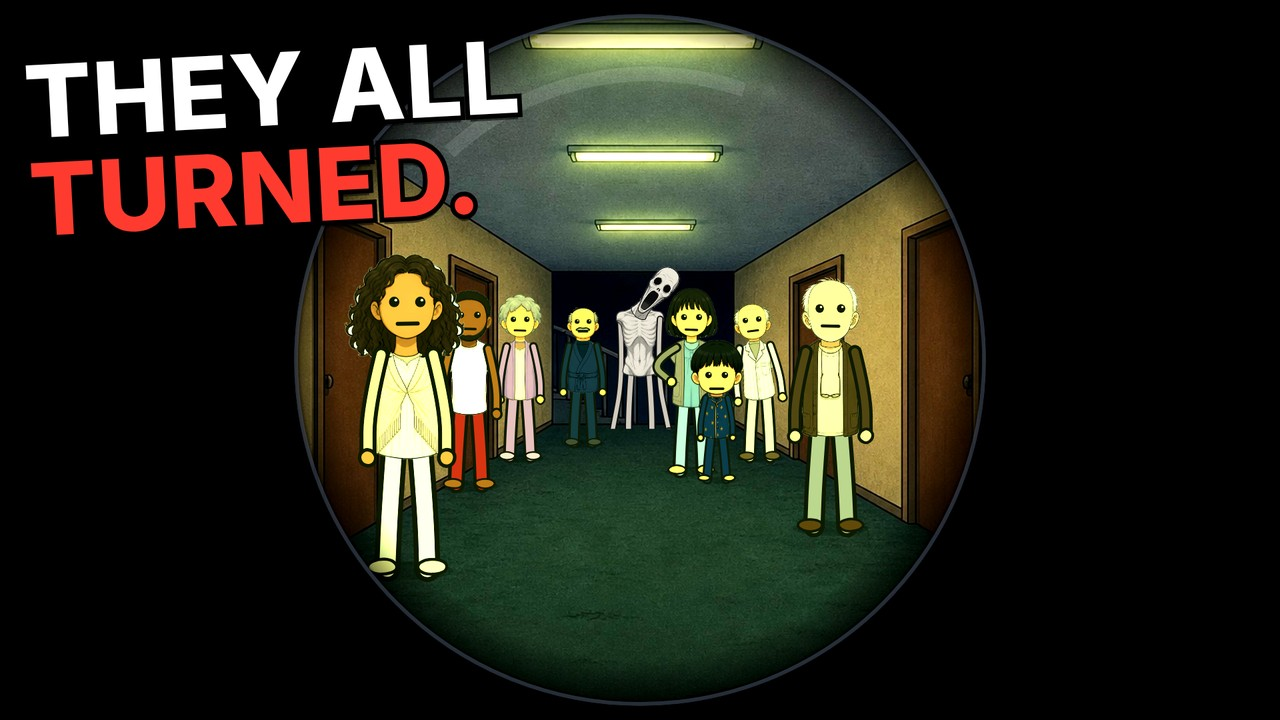
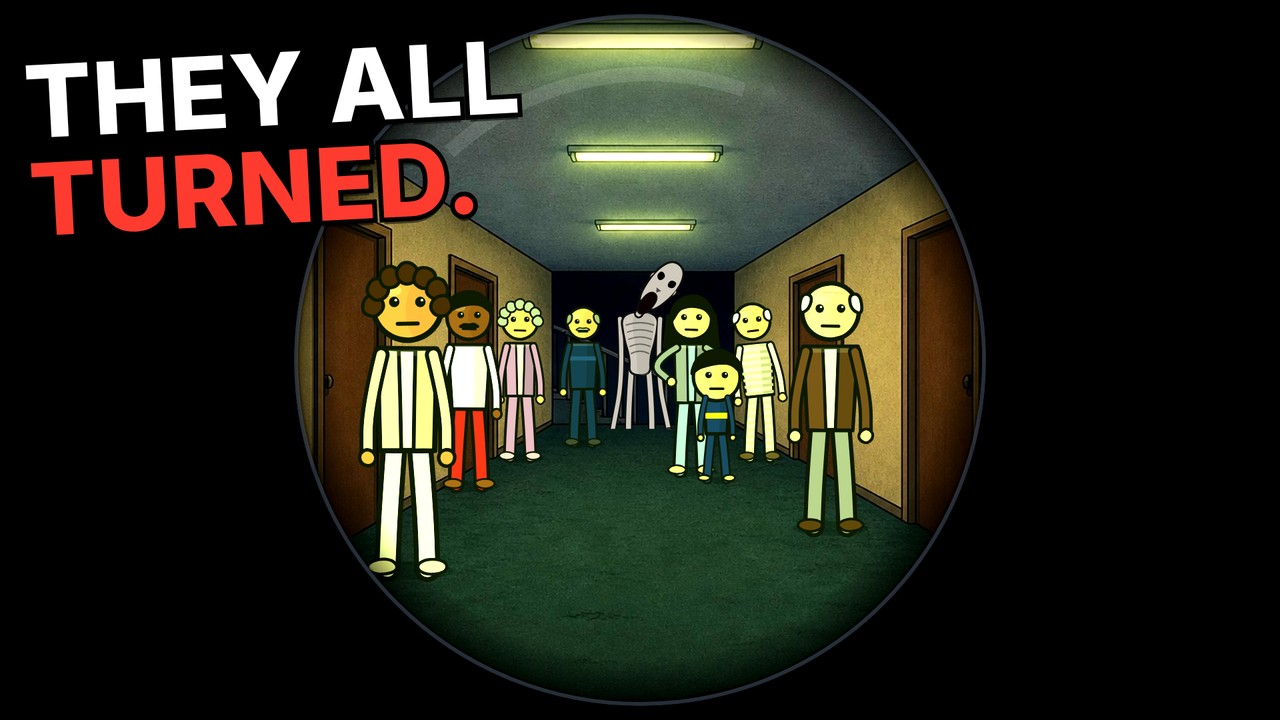
3:06 stick: back to the code-drawn style (no painted puppets)
The cast is drawn in code like the new Mr. Widemouth and Goatman (with new
open-cardigan and sweater-vest options for Mr. Harris, the mother, the
landlord and the neighbours); the creature, the sack, the sofa, the table,
the chair and the notebook are now code drawings too. Painted backgrounds
kept. Frame QA: 0 findings on every 2nd frame. Thumbnails re-rendered.

Claude-Session: https://claude.ai/code/session_01HYgoxans3AHT78NQRMkcgm

Changed region(s): [[0.25, 0.3361, 0.6875, 0.6722]]

diff --git a/door306-stick/src/components/characters/Creature.tsx b/door306-stick/src/components/characters/Creature.tsx
@@ -1,16 +1,12 @@
 // THE CREATURE: nearly seven feet of grey skin over bone, painted head and torso (cut-out parts), code-drawn
 // limbs: arms that hang almost to the floor, fingers far too long, a head bent at an impossible angle.
 import React from 'react';
-import {staticFile} from 'remotion';
-import puppets from '../../data/generated/puppets.json';
-import {boilOf, wob, wobLine, type Pt} from '../../utils/rough';
+import {boilOf, wob, wobLine, wobPoly, type Pt} from '../../utils/rough';
 import {qaAdd, useStageCtx} from '../../stick/kit';
 
 const INK = '#141414';
 const SKIN = '#8d8a84';
 const SKIN_D = '#6f6c66';
-type Part = {src: string; w: number; h: number};
-const C = (puppets as unknown as Record<string, Record<string, Part>>).creature;
 
 export type CreatureProps = {
 	x: number;
@@ -116,14 +112,50 @@ export const Creature: React.FC<CreatureProps> = ({x, y, s = 1, frame, view = 'f
 			<Fingers h={hd} dir={reach && k === 1 ? Math.atan2(hd[1] - sh[1], hd[0] - sh[0]) : Math.PI / 2} curl={grip && k === 0 ? 1 : 0.35} sd={sd + 30 + k * 5} />
 		</g>
 	);
-	const torso = view === 'back' ? C.torsoBack : view === 'side' ? C.torsoSide : C.torso;
-	const head = view === 'back' ? C.headBack : view === 'side' ? C.headSide : C.head;
-	const tw = view === 'side' ? 78 : 118;
-	const th = hipY + 16 - (shY - 18);
-	const hh = 150;
-	const hw = (head.w / head.h) * hh;
 	const neck: Pt = [hx + (view === 'side' ? 16 : 0), shY - 4];
-	const jaw = talk > 0.05 ? 1 + talk * 0.12 : 1;
+	const jaw = Math.max(0, Math.min(1, talk));
+	// torso: narrow and skeletal, ribs and a hollow belly (front), spine and shoulder blades (back)
+	const tW = view === 'side' ? 22 : 46;
+	const hW = view === 'side' ? 16 : 24;
+	const torsoD = wob(
+		view === 'side'
+			? [[hx - tW, shY - 6], [hx + tW + 8, shY - 2], [hx + hW + 4, (shY + hipY) / 2], [hx + hW, hipY + 10], [hx - hW, hipY + 10], [hx - tW - 6, (shY + hipY) / 2]]
+			: [[hx - tW, shY - 4], [hx + tW, shY - 4], [hx + tW - 8, shY + 60], [hx + hW, hipY - 30], [hx + hW + 2, hipY + 10], [hx - hW - 2, hipY + 10], [hx - hW, hipY - 30], [hx - tW + 8, shY + 60]],
+		sd + 40,
+		1,
+	);
+	const ribs = view === 'back'
+		? [<path key="sp" d={wobLine(hx, shY + 4, hx, hipY, sd + 41, 1, 4)} fill="none" stroke={INK} strokeOpacity={0.55} strokeWidth={3} />,
+			...[-1, 1].map((sg) => <path key={`bl${sg}`} d={`M${hx + sg * 12},${shY + 18} q${sg * 22},10 ${sg * 18},40`} fill="none" stroke={INK} strokeOpacity={0.45} strokeWidth={3} />)]
+		: Array.from({length: 5}, (_, i) => {
+				const yy = shY + 22 + i * 17;
+				const w = (view === 'side' ? 16 : 34) - i * 3;
+				return view === 'side' ? (
+					<path key={i} d={`M${hx - 4},${yy} q${w},4 ${w + 6},14`} fill="none" stroke={INK} strokeOpacity={0.5} strokeWidth={3} />
+				) : (
+					<path key={i} d={`M${hx - w},${yy + 6} Q${hx},${yy - 6} ${hx + w},${yy + 6}`} fill="none" stroke={INK} strokeOpacity={0.5} strokeWidth={3} />
+				);
+			});
+	// head: a long bald skull, deep black eye sockets, a mouth that hangs open far too wide
+	const headEl = (
+		<g>
+			<path d={wobLine(0, 6, 0, -20, sd + 50, 0.6)} stroke={INK} strokeWidth={22} strokeLinecap="round" />
+			<path d={wobLine(0, 6, 0, -20, sd + 50, 0.6)} stroke={SKIN} strokeWidth={13} strokeLinecap="round" />
+			<path d={wob([[-30, -40], [-36, -95], [-24, -138], [0, -150], [24, -138], [36, -95], [30, -40], [16, -14], [-16, -14]], sd + 51, 1.2)} fill={view === 'back' ? SKIN_D : SKIN} stroke={INK} strokeWidth={5} strokeLinejoin="round" />
+			{view !== 'back' ? (
+				<g transform={view === 'side' ? 'translate(9 0)' : undefined}>
+					{(view === 'side' ? [1] : [-1, 1]).map((sg) => (
+						<path key={`e${sg}`} d={wob([[sg * 6, -104], [sg * 24, -110], [sg * 26, -92], [sg * 10, -86]], sd + 52 + sg, 0.8)} fill="#050505" />
+					))}
+					<path d={`M${view === 'side' ? 2 : -7},-70 L${view === 'side' ? 10 : 7},-70 L${view === 'side' ? 6 : 0},-60 Z`} fill="#3a3a3a" />
+					<path d={wob([[-13, -56], [13, -56], [16 + jaw * 4, -10 + jaw * 40], [0, 8 + jaw * 50], [-16 - jaw * 4, -10 + jaw * 40]], sd + 54, 0.8)} fill="#120707" stroke={INK} strokeWidth={4} />
+				</g>
+			) : (
+				<path d={wobLine(-14, -120, 10, -70, sd + 55, 1)} stroke={INK} strokeOpacity={0.3} strokeWidth={3} />
+			)}
+			{[-1, 1].map((sg) => (view === 'side' && sg < 0 ? null : <path key={`ear${sg}`} d={`M${sg * 33},-96 q${sg * 10},6 ${sg * 2},20`} fill={SKIN} stroke={INK} strokeWidth={3.5} />))}
+		</g>
+	);
 	return (
 		<g transform={`translate(${x} ${y}) scale(${left ? -s : s} ${s})`} opacity={opacity}>
 			<ellipse cx={0} cy={2} rx={70} ry={10} fill="#000" opacity={0.3} />
@@ -131,40 +163,87 @@ export const Creature: React.FC<CreatureProps> = ({x, y, s = 1, frame, view = 'f
 			{leg(1, Math.PI)}
 			{arm(shL, handL, -1, 0)}
 			<g transform={`rotate(${hunch * (view === 'side' ? 18 : 0)} 0 ${hipY})`}>
-				<image href={staticFile(torso.src)} x={hx - tw / 2} y={shY - 18} width={tw} height={th} preserveAspectRatio="none" />
+				<path d={torsoD} fill={SKIN} stroke={INK} strokeWidth={5} strokeLinejoin="round" />
+				<path d={torsoD} fill={SKIN_D} opacity={0.35} transform={`translate(${view === 'side' ? -6 : 8} 0) scale(${view === 'side' ? 1 : 0.6} 1)`} style={{transformOrigin: `${hx}px ${shY}px`}} />
+				{ribs}
 			</g>
-			<g transform={`rotate(${view === 'back' ? -tilt * 0.6 : tilt} ${neck[0]} ${neck[1]}) translate(${neck[0]} ${neck[1]}) scale(1 ${jaw})`}>
-				<image href={staticFile(head.src)} x={-hw / 2 + (view === 'side' ? 10 : 0)} y={-hh + 18} width={hw} height={hh} />
-			</g>
+			<g transform={`rotate(${view === 'back' ? -tilt * 0.6 : tilt} ${neck[0]} ${neck[1]}) translate(${neck[0]} ${neck[1]})`}>{headEl}</g>
 			{arm(shR, handR, 1, 1)}
 		</g>
 	);
 };
 
-/** the stained sack (cut-out prop); `moving` makes the lump inside shift */
+/** the stained burlap sack, tied at the neck; `moving` makes the lump inside shift */
 export const Sack: React.FC<{x: number; y: number; s?: number; frame: number; moving?: number; flip?: boolean}> = ({x, y, s = 1, frame, moving = 0, flip = false}) => {
-	const P = (puppets as unknown as Record<string, Record<string, Part>>).props;
-	const part = moving > 0 && Math.floor(frame / 5) % 2 === 0 ? P.sackMove : P.sack;
-	const w = 220 * s;
-	const h = (part.h / part.w) * w;
-	const j = moving > 0 ? Math.sin(frame * 1.3) * 3 * moving : 0;
+	const sd = 2100 + boilOf(frame, 4) * 7;
+	const bulge = moving > 0 ? Math.sin(frame / 3) * 14 * moving : 0;
+	const w = 110;
 	return (
-		<g transform={`translate(${x + j} ${y}) scale(${flip ? -1 : 1} 1)`}>
-			<ellipse cx={0} cy={-2} rx={w * 0.45} ry={8} fill="#000" opacity={0.28} />
-			<image href={staticFile(part.src)} x={-w / 2} y={-h} width={w} height={h} />
+		<g transform={`translate(${x} ${y}) scale(${(flip ? -1 : 1) * s} ${s})`}>
+			<ellipse cx={0} cy={-2} rx={w * 0.95} ry={9} fill="#000" opacity={0.28} />
+			<path d={wob([[-w, -6], [-w + 6, -70 - bulge * 0.3], [-30, -118 - bulge], [30, -112 + bulge * 0.4], [w - 20, -70], [w, -40], [w - 4, -6]], sd, 2)} fill="#8a6a44" stroke={INK} strokeWidth={5} strokeLinejoin="round" />
+			<path d={wob([[w - 4, -40], [w + 26, -58], [w + 44, -46], [w + 30, -30], [w + 4, -24]], sd + 1, 1.2)} fill="#8a6a44" stroke={INK} strokeWidth={4} />
+			<path d={wobLine(w - 6, -46, w + 6, -28, sd + 2, 0.6)} stroke="#4a3622" strokeWidth={6} />
+			<ellipse cx={-30} cy={-40} rx={26} ry={12} fill="#4a2a1c" opacity={0.55} />
+			<ellipse cx={24} cy={-70} rx={14} ry={8} fill="#4a2a1c" opacity={0.45} />
+			{[-60, -20, 20, 60].map((xx) => (
+				<path key={xx} d={`M${xx},-12 l6,-${40 + (xx % 3) * 6}`} stroke="#000" strokeOpacity={0.15} strokeWidth={3} />
+			))}
 		</g>
 	);
 };
 
-/** any cut-out prop (sofa, table, chair, notebook) standing on y */
+/** furniture and the notebook, drawn in code, standing on y (w = width) */
 export const Prop: React.FC<{name: 'sofa' | 'table' | 'chair' | 'notebook'; x: number; y: number; w: number; tilt?: number}> = ({name, x, y, w, tilt = 0}) => {
-	const P = (puppets as unknown as Record<string, Record<string, Part>>).props;
-	const part = P[name];
-	const h = (part.h / part.w) * w;
+	const sd = 2200 + name.length * 13;
+	const el = (() => {
+		if (name === 'sofa') {
+			const h = w * 0.58;
+			const L = x - w / 2;
+			const fab = '#6e6080';
+			const dark = '#584c68';
+			return (
+				<g>
+					<path d={wobPoly([[L + 20, y - h], [L + w - 20, y - h], [L + w - 14, y - h * 0.45], [L + 14, y - h * 0.45]], sd, 1)} fill={dark} stroke={INK} strokeWidth={5} />
+					<path d={wobPoly([[L + 30, y - h * 0.55], [L + w - 30, y - h * 0.55], [L + w - 30, y - h * 0.25], [L + 30, y - h * 0.25]], sd + 1, 1)} fill={fab} stroke={INK} strokeWidth={4} />
+					<path d={wobLine(x, y - h * 0.55, x, y - h * 0.25, sd + 2, 0.6)} stroke={INK} strokeWidth={3} />
+					{[-1, 1].map((sg) => (
+						<path key={sg} d={wobPoly([[sg > 0 ? L + w - 46 : L, y - h * 0.62], [sg > 0 ? L + w : L + 46, y - h * 0.62], [sg > 0 ? L + w : L + 46, y - 10], [sg > 0 ? L + w - 46 : L, y - 10]], sd + 3 + sg, 1)} fill={dark} stroke={INK} strokeWidth={5} />
+					))}
+					<path d={wobPoly([[L + 20, y - h * 0.25], [L + w - 20, y - h * 0.25], [L + w - 20, y - 10], [L + 20, y - 10]], sd + 5, 1)} fill={dark} stroke={INK} strokeWidth={5} />
+					{[L + 40, L + w - 48].map((lx) => <rect key={lx} x={lx} y={y - 10} width={8} height={10} fill="#2a1d14" />)}
+				</g>
+			);
+		}
+		if (name === 'table') {
+			const h = w * 0.62;
+			const L = x - w / 2;
+			return (
+				<g>
+					<path d={wobPoly([[L, y - h], [L + w, y - h], [L + w, y - h + 18], [L, y - h + 18]], sd, 0.8)} fill="#8a5a36" stroke={INK} strokeWidth={5} />
+					{[L + 14, L + w - 30].map((lx) => <path key={lx} d={wobPoly([[lx, y - h + 18], [lx + 16, y - h + 18], [lx + 16, y], [lx, y]], sd + lx, 0.6)} fill="#74492a" stroke={INK} strokeWidth={4} />)}
+				</g>
+			);
+		}
+		if (name === 'chair') {
+			const h = w * 1.8;
+			const L = x - w / 2;
+			return (
+				<g>
+					<path d={wobPoly([[L + 6, y - h], [L + w - 6, y - h], [L + w - 6, y - h * 0.5], [L + 6, y - h * 0.5]], sd, 0.6)} fill="#8a5a36" stroke={INK} strokeWidth={4} />
+					<path d={wobPoly([[L + 18, y - h + 14], [L + w - 18, y - h + 14], [L + w - 18, y - h * 0.5], [L + 18, y - h * 0.5]], sd + 9, 0.4)} fill="#000" opacity={0.25} />
+					<path d={wobPoly([[L, y - h * 0.5], [L + w, y - h * 0.5], [L + w, y - h * 0.44], [L, y - h * 0.44]], sd + 1, 0.6)} fill="#8a5a36" stroke={INK} strokeWidth={4} />
+					{[L + 4, L + w - 12].map((lx) => <rect key={lx} x={lx} y={y - h * 0.44} width={8} height={h * 0.44} fill="#74492a" stroke={INK} strokeWidth={3} />)}
+				</g>
+			);
+		}
+		const h = w * 0.6;
+		return <path d={wobPoly([[x - w / 2, y], [x + w / 2, y], [x + w / 2 - 6, y - h * 0.25], [x - w / 2 + 6, y - h * 0.25]], sd, 0.6)} fill="#7a4a2a" stroke={INK} strokeWidth={4} />;
+	})();
 	return (
 		<g transform={`rotate(${tilt} ${x} ${y})`}>
 			<ellipse cx={x} cy={y - 2} rx={w * 0.48} ry={9} fill="#000" opacity={0.25} />
-			<image href={staticFile(part.src)} x={x - w / 2} y={y - h} width={w} height={h} />
+			{el}
 		</g>
 	);
 };

diff --git a/door306-stick/src/components/characters/Cast.tsx b/door306-stick/src/components/characters/Cast.tsx
@@ -1,40 +1,36 @@
-// The cast of "3:06" as painted puppets on the stick skeleton (heads, hair and torsos painted by the image
-// model, cut out; arms, legs, eyes, brows and mouths drawn by the code so everything can animate).
+// The cast of "3:06" as code-drawn stick figures (the look of the new Mr. Widemouth and Goatman): round heads,
+// dot eyes, tube limbs, thick hand-drawn outlines, flat colours. Colours follow the original character sheets.
 import React from 'react';
-import puppets from '../../data/generated/puppets.json';
-import {StickPerson, type Paint, type StickProps} from './StickPerson';
+import {StickPerson, type StickProps} from './StickPerson';
 
 type P = Omit<StickProps, 'palette'> & {palette?: StickProps['palette']};
-const PUP = puppets as unknown as Record<string, Paint>;
-const mk = (base: Partial<StickProps> & {palette: StickProps['palette']}, who: string, tune: Partial<Paint> = {}) => {
-	const paint = PUP[who] ? {...PUP[who], ...tune} : undefined;
-	const C: React.FC<P> = (p) => <StickPerson {...base} paint={paint} {...p} palette={p.palette ?? base.palette} />;
+const mk = (base: Partial<StickProps> & {palette: StickProps['palette']}) => {
+	const C: React.FC<P> = (p) => <StickPerson {...base} {...p} palette={p.palette ?? base.palette} />;
 	return C;
 };
 
 export const PAL = {
-	sarah: {skin: '#f1c596', shirt: '#7d8062', pants: '#9a9da3', hair: '#8a4a26', shoes: '#f1c596'}, // barefoot
-	harris: {skin: '#e9c6a6', shirt: '#413328', pants: '#8f8f93', hair: '#d8d8d4', shoes: '#4a3524'},
-	mother: {skin: '#ebbe89', shirt: '#7c7571', pants: '#9db4d0', hair: '#141414', shoes: '#ebbe89'},
-	boy: {skin: '#e1b089', shirt: '#182c4b', pants: '#182c4b', hair: '#141414', shoes: '#e1b089'},
-	oldman: {skin: '#ecbb92', shirt: '#dbd5cd', pants: '#cfc9c0', hair: '#e6e6e2', shoes: '#5a4a3a'},
-	robeman: {skin: '#e9ad80', shirt: '#1d2c44', pants: '#1d2c44', hair: '#8a8a86', shoes: '#3a3a40'},
-	tshirt: {skin: '#865839', shirt: '#865839', pants: '#8a2b2b', hair: '#141414', shoes: '#865839'}, // bare arms, plaid pyjama trousers
-	shawl: {skin: '#be8b63', shirt: '#d4c3a8', pants: '#ebe6dc', hair: '#3a2416', shoes: '#e2d6c0'},
-	robewoman: {skin: '#e5b283', shirt: '#a685b2', pants: '#a685b2', hair: '#9a9a9a', shoes: '#b7a1c4'},
-	landlord: {skin: '#e3ad81', shirt: '#8aa6c8', pants: '#4a3a2c', hair: '#7a6450', shoes: '#2a1d14'},
+	sarah: {skin: '#f3d2b8', shirt: '#7f9a6e', pants: '#a3a6ad', hair: '#a4482a', shoes: '#f3d2b8'}, // sage pyjama top, barefoot
+	harris: {skin: '#ecc9a8', shirt: '#5a4030', pants: '#8f8f93', hair: '#e2e2de', shoes: '#4a3524'}, // brown cardigan
+	mother: {skin: '#efc49a', shirt: '#8b8f99', pants: '#9db4d0', hair: '#141414', shoes: '#efc49a'}, // grey cardigan, blue nightgown
+	boy: {skin: '#e9bb93', shirt: '#22365e', pants: '#22365e', hair: '#141414', shoes: '#e9bb93'}, // star pyjamas
+	oldman: {skin: '#ecbb92', shirt: '#dcd6cc', pants: '#cfc9c0', hair: '#ececea', shoes: '#5a4a3a'}, // striped pyjamas
+	robeman: {skin: '#e9ad80', shirt: '#1f3150', pants: '#1f3150', hair: '#8a8a86', shoes: '#3a3a40'}, // navy bathrobe
+	tshirt: {skin: '#7a4f33', shirt: '#f2f0ec', pants: '#a03030', hair: '#141414', shoes: '#7a4f33'}, // white T-shirt, plaid trousers
+	shawl: {skin: '#c48f66', shirt: '#e6d6b8', pants: '#efe9de', hair: '#3a2416', shoes: '#e2d6c0'}, // cream blanket
+	robewoman: {skin: '#ebb88a', shirt: '#a985b8', pants: '#a985b8', hair: '#a3a3a3', shoes: '#b7a1c4'}, // lilac gown
+	landlord: {skin: '#e6b086', shirt: '#4d525a', pants: '#4a3a2c', hair: '#7a6450', shoes: '#2a1d14'}, // grey sweater vest
 };
 
-export const Sarah = mk({female: true, seed: 71, palette: PAL.sarah}, 'sarah');
-export const Harris = mk({seed: 72, palette: PAL.harris}, 'harris');
-export const Mother = mk({female: true, seed: 73, palette: PAL.mother}, 'mother');
-export const Boy = mk({child: true, seed: 74, palette: PAL.boy}, 'boy');
-export const OldMan = mk({seed: 75, palette: PAL.oldman, wrinkles: true}, 'oldman');
-export const RobeMan = mk({seed: 76, palette: PAL.robeman, mustache: '#9a9a96'}, 'robeman');
-export const TShirt = mk({seed: 77, palette: PAL.tshirt}, 'tshirt');
-export const Shawl = mk({female: true, seed: 78, palette: PAL.shawl}, 'shawl');
-export const RobeWoman = mk({female: true, seed: 79, palette: PAL.robewoman, wrinkles: true}, 'robewoman');
-export const Landlord = mk({seed: 80, palette: PAL.landlord}, 'landlord');
+export const Sarah = mk({female: true, hair: 'medium', seed: 71, palette: PAL.sarah});
+export const Harris = mk({hair: 'grayShort', wrinkles: true, glasses: false, seed: 72, palette: {...PAL.harris, shirt: '#ece4d4'}, open: '#5a4030'});
+export const Mother = mk({female: true, hair: 'medium', seed: 73, palette: {...PAL.mother, shirt: '#9db4d0'}, open: '#8b8f99'});
+export const Boy = mk({child: true, hair: 'short', seed: 74, palette: PAL.boy, stripe: '#e8c84a'});
+export const OldMan = mk({hair: 'grayShort', wrinkles: true, seed: 75, palette: PAL.oldman, pj: '#b9b3a8'});
+export const RobeMan = mk({hair: 'grayShort', mustache: '#9a9a96', seed: 76, palette: PAL.robeman, stripe: '#2c4570'});
+export const TShirt = mk({hair: 'buzz', mustache: '#141414', seed: 77, palette: PAL.tshirt});
+export const Shawl = mk({female: true, hair: 'curly', seed: 78, palette: {...PAL.shawl, shirt: '#efe9de'}, open: '#e6d6b8'});
+export const RobeWoman = mk({female: true, hair: 'curly', wrinkles: true, seed: 79, palette: {...PAL.robewoman, shirt: '#efe4d0'}, open: '#a985b8'});
+export const Landlord = mk({hair: 'short', seed: 80, palette: {...PAL.landlord, shirt: '#8aa6c8'}, sweater: '#4d525a'});
 
-/** the five residents + the mother and boy, in a fixed order */
 export const RESIDENTS = {mother: Mother, boy: Boy, oldman: OldMan, robeman: RobeMan, tshirt: TShirt, shawl: Shawl, robewoman: RobeWoman, harris: Harris};

diff --git a/door306-stick/src/components/characters/StickPerson.tsx b/door306-stick/src/components/characters/StickPerson.tsx
@@ -98,6 +98,10 @@ export interface StickProps {
 	glasses?: boolean;
 	brooch?: boolean;
 	stripe?: string;
+	/** an open cardigan / robe / blanket in this colour over the shirt (sleeves take this colour too) */
+	open?: string;
+	/** a V-neck sweater vest in this colour over the shirt */
+	sweater?: string;
 	/** pyjamas: stripes of this colour across the top and the legs */
 	pj?: string;
 	vest?: string;
@@ -742,7 +746,8 @@ export const StickPerson: React.FC<StickProps> = (p) => {
 
 	const armPath = (pts: Pt[], sdo: number) => wob(pts, sd + sdo, amp * 0.5, false);
 	const lum = parseInt(palette.shirt.slice(1, 3), 16) + parseInt(palette.shirt.slice(3, 5), 16) + parseInt(palette.shirt.slice(5, 7), 16);
-	const sleeve = lum < 90 ? mixHex(palette.shirt, '#5a5f68', 0.35) : palette.shirt;
+	const sleeveBase = p.open ?? palette.shirt;
+	const sleeve = lum < 90 && !p.open ? mixHex(palette.shirt, '#5a5f68', 0.35) : sleeveBase;
 	const armEl = (arm: Pt[], i: number, far = false) => (
 		<g key={`arm${i}`}>
 			<path d={armPath(arm, 30 + i)} stroke={INK} strokeWidth={17 * k} fill="none" strokeLinecap="round" strokeLinejoin="round" />
@@ -830,8 +835,25 @@ export const StickPerson: React.FC<StickProps> = (p) => {
 					return <image href={staticFile(part.src)} x={-bw / 2} y={top} width={bw} height={bh} preserveAspectRatio="none" transform={mirror ? 'scale(-1 1)' : undefined} />;
 				})()
 			) : (
-				<path d={bodyD} fill={palette.shirt} stroke={INK} strokeWidth={lw} strokeLinejoin="round" />
+				<path d={bodyD} fill={back && p.open ? p.open : palette.shirt} stroke={INK} strokeWidth={lw} strokeLinejoin="round" />
 			)}
+			{p.open && !back && !p.paint ? (
+				<g>
+					{(side ? [1] : [-1, 1]).map((sg) => (
+						<path
+							key={`op${sg}`}
+							d={wobPoly(side ? [[-shW, shY], [shW * 0.35, shY], [hipW * 0.3, hipY + 2], [-hipW, hipY + 2]] : [[sg * shW, shY], [sg * shW * 0.28, shY], [sg * hipW * 0.22, hipY + 2], [sg * hipW, hipY + 2]], sd + 15 + sg, 0.6)}
+							fill={p.open}
+							stroke={INK}
+							strokeWidth={lw * 0.7}
+							strokeLinejoin="round"
+						/>
+					))}
+				</g>
+			) : null}
+			{p.sweater && !back && !p.paint ? (
+				<path d={wobPoly([[-shW + 5, shY + 3], [-9, shY + 3], [0, shY + 30 * k], [9, shY + 3], [shW - 5, shY + 3], [hipW - 1, hipY], [-hipW + 1, hipY]], sd + 16, 0.6)} fill={p.sweater} stroke={INK} strokeWidth={lw * 0.65} strokeLinejoin="round" />
+			) : null}
 			{p.pj && !back && !p.paint ? (
 				<g clipPath={`url(#bc${uid})`}>
 					{Array.from({length: 12}, (_, i) => (

diff --git a/door306-stick/src/dev/PuppetSheet.tsx b/door306-stick/src/dev/PuppetSheet.tsx
@@ -20,6 +20,8 @@ export const PuppetSheet: React.FC = () => {
 				<Creature x={1280} y={1060} s={1.4} frame={f} view="back" />
 				<Prop name="sofa" x={1600} y={1060} w={340} />
 				<Prop name="table" x={1820} y={800} w={180} />
+				<Prop name="chair" x={1660} y={800} w={80} />
+				<Prop name="notebook" x={1820} y={640} w={110} />
 			</svg>
 		</AbsoluteFill>
 	);
